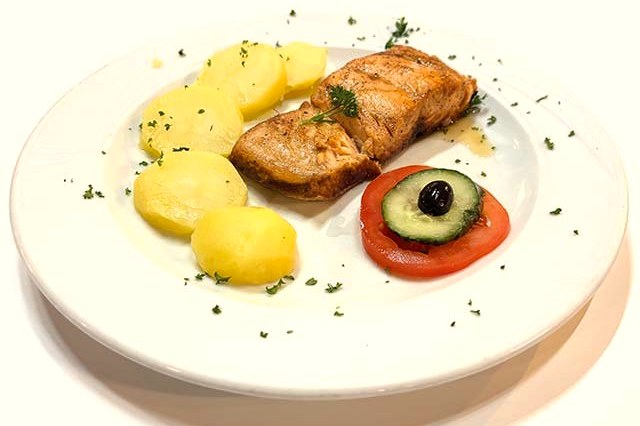
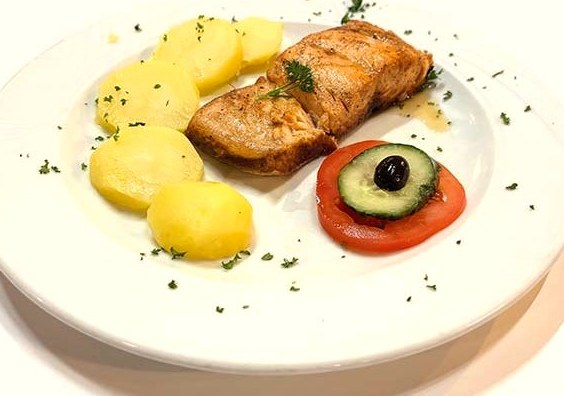
Bistrot Place de Paris: all six menu sections reachable from the chips, chips kept inside the 16px gutter, a readable wordmark in the header, the phone hero opening on the banquettes, tighter and warmer plate crops
Claude-Session: https://claude.ai/code/session_01NyY9eU8E4dvfw8E8p3rupS

diff --git a/demo/bistrot-place-de-paris/site/index.html b/demo/bistrot-place-de-paris/site/index.html
@@ -52,10 +52,11 @@
   /* ---------- header ---------- */
   .bar{position:sticky;top:0;z-index:50;background:rgba(246,238,223,.96);border-bottom:1px solid var(--line);
     backdrop-filter:saturate(1.2) blur(6px)}
-  .bar .wrap{display:flex;align-items:center;gap:18px;min-height:78px;padding-block:8px}
-  .bar .mark img{height:66px;width:auto}
-  .bar .mark-txt{display:none;font-family:var(--disp);font-weight:600;font-size:1.2rem;color:var(--bord);line-height:1.02}
+  .bar .wrap{display:flex;align-items:center;gap:18px;min-height:70px;padding-block:8px}
+  .bar .mark img{display:none}
+  .bar .mark-txt{display:block;font-family:var(--disp);font-weight:600;font-size:1.2rem;color:var(--bord);line-height:1.02}
   .bar .mark-txt b{display:block;font-weight:700;letter-spacing:.02em}
+  @media(min-width:641px){ .bar .mark-txt{font-size:1.5rem} }
   .bar nav{display:flex;gap:22px;margin-left:auto}
   .bar nav a{font-size:.9rem;font-weight:600;color:var(--ink)}
   .bar nav a:hover{color:var(--bord)}
@@ -183,19 +184,15 @@
   @media(max-width:640px){
     body{font-size:16px;padding-bottom:54px}
     .bar .wrap{min-height:58px}
-    .bar .mark img{display:none}
-    .bar .mark-txt{display:block}
     .bar .btn{display:none}
     .hero .wrap{min-height:min(72svh,560px)}
+    .hero img.bg{object-position:74% 60%}
     .hero .cta{display:none}
     .facts .wrap{grid-template-columns:1fr}
     .facts .c+.c{border-left:0;border-top:1px solid rgba(246,238,223,.28);padding-left:0;padding-top:16px}
     .facts .c{padding-block:16px}
     .groups{grid-template-columns:1fr}
-    .jump{display:flex;gap:8px;overflow-x:auto;scrollbar-width:none;padding-block:16px 4px;position:sticky;top:58px;z-index:20;
-      background:linear-gradient(180deg,var(--paper2) 72%,rgba(238,226,205,0));
-      -webkit-mask-image:linear-gradient(90deg,#000 88%,rgba(0,0,0,.15));mask-image:linear-gradient(90deg,#000 88%,rgba(0,0,0,.15))}
-    .jump::-webkit-scrollbar{display:none}
+    .jump{display:flex;flex-wrap:wrap;gap:8px;padding-block:16px 2px}
     .jump a{flex:none;font-size:.82rem;font-weight:600;color:var(--ink);border:1px solid var(--line);
       padding:8px 13px;border-radius:2px;white-space:nowrap;background:#fff}
     .cocks{columns:2;column-gap:20px}
@@ -282,7 +279,7 @@
 
 
       <nav class="jump" aria-label="Rubriques">
-        <a href="#g-viande" data-i18n="g_viande">Viandes</a><a href="#g-autres" data-i18n="g_autres">Autres plats</a><a href="#g-pates" data-i18n="g_pates">Pâtes</a><a href="#g-salades" data-i18n="g_salades">Salades</a><a href="#g-snacks" data-i18n="g_omelettes">Omelettes et snacks</a><a href="#g-glaces" data-i18n="g_glaces">Glaces et desserts</a>
+        <a href="#g-viande" data-i18n="jump_viande">Viandes</a><a href="#g-autres" data-i18n="jump_autres">Autres</a><a href="#g-pates" data-i18n="g_pates">Pâtes</a><a href="#g-salades" data-i18n="g_salades">Salades</a><a href="#g-snacks" data-i18n="jump_snacks">Omelettes</a><a href="#g-glaces" data-i18n="jump_glaces">Desserts</a>
       </nav>
       <div class="groups">
         <div class="grp" id="g-viande">
@@ -470,6 +467,10 @@
   /* ---------------- i18n ---------------- */
   var I18N = {
     fr:{
+      jump_viande:"Viandes",
+      jump_autres:"Autres",
+      jump_snacks:"Omelettes",
+      jump_glaces:"Desserts",
       skip:"Aller à la carte",
       nav_maison:"La maison",
       nav_carte:"La carte",
@@ -563,6 +564,10 @@
       disc:"Proposition de site non officielle, réalisée par Webwerk à partir d'informations et de photos publiques, sans lien avec l'établissement."
     },
     de:{
+      jump_viande:"Fleisch",
+      jump_autres:"Weitere",
+      jump_snacks:"Omeletts",
+      jump_glaces:"Nachtisch",
       skip:"Zur Speisekarte",
       nav_maison:"Das Haus",
       nav_carte:"Die Karte",
@@ -656,6 +661,10 @@
       disc:"Inoffizieller Website-Vorschlag von Webwerk, erstellt aus öffentlichen Informationen und Fotos, ohne Verbindung zum Lokal."
     },
     en:{
+      jump_viande:"Meat",
+      jump_autres:"More",
+      jump_snacks:"Omelettes",
+      jump_glaces:"Puddings",
       skip:"Skip to the menu",
       nav_maison:"The brasserie",
       nav_carte:"The menu",
